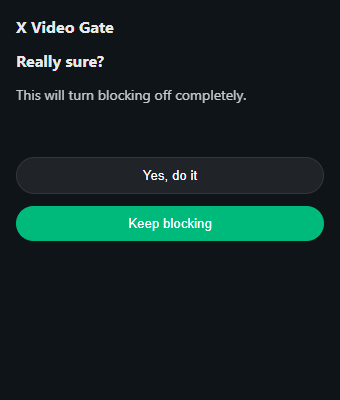
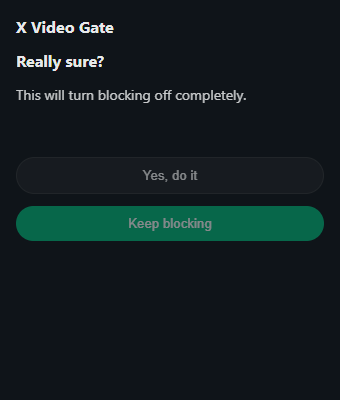
Give every dropped press and failed step a visible answer
Popup buttons look inactive during the double-click guard, a failed save says
so, the Play button reports a tab that didn't open or a stale page after an
update, the player falls to the next quality or says it couldn't load, and
Close removes the tab. Follow-flag rule now tells 'not said' from 'not followed'.

Changed region(s): [[0.0294, 0.51, 0.9706, 0.6], [0.4118, 0.42, 0.5882, 0.45]]

diff --git a/extension/content.js b/extension/content.js
@@ -27,10 +27,11 @@
     let list;
     try { list = JSON.parse(e.detail); } catch { return; }
     for (const rec of list) {
-      // A later response that merely omits the follow flag must not turn a
-      // followed author's video into a blocked one.
+      // A later response that doesn't say whether you follow the author must
+      // not turn a followed author's video into a blocked one. One that says
+      // "not followed" outright still does.
       const old = rec.mediaId && byMedia.get(rec.mediaId);
-      if (old && old.following && old.screenName === rec.screenName) rec.following = true;
+      if (rec.followKnown === false && old && old.following && old.screenName === rec.screenName) rec.following = true;
       if (rec.thumb) byThumb.set(rec.thumb, rec);
       if (rec.mediaId) byMedia.set(rec.mediaId, rec);
       if (rec.tweetId) {
@@ -144,16 +145,24 @@
         if (Date.now() - lastOpen < 1500) return;
         // X may have swapped the <video> element since this overlay was made.
         const current = box.querySelector("video");
-        if (current && openSingle(current)) { lastOpen = Date.now(); return; }
-        ov.dataset.xvgNote = "1";
-        setText(ov.querySelector(".xvg-msg"), "Can't open this one in a new tab");
+        const note = (text) => {
+          lastOpen = 0;
+          ov.dataset.xvgNote = "1";
+          setText(ov.querySelector(".xvg-msg"), text);
+        };
+        const result = current ? openSingle(current, () => note("Couldn't open the tab. Tap again.")) : "nothing";
+        if (result === "sent") lastOpen = Date.now();
+        else if (result === "stale") note("The extension was updated. Reload this page.");
+        else note("Can't open this one in a new tab");
       });
       box.appendChild(ov);
     }
     if (ov.dataset.xvgNote) {
       // Keep the "can't open" notice only while there is still nothing to open.
+      // Notes about a failed attempt stay; "nothing to open" lifts once there is something.
+      const nothing = ov.querySelector(".xvg-msg").dataset.xvgText === "Can't open this one in a new tab";
       const openable = (rec && (rec.variants.length || rec.tweetId)) || tweetIdFromArticle(video.closest("article"));
-      if (!openable) return;
+      if (!nothing || !openable) return;
       delete ov.dataset.xvgNote;
     }
     const who = rec && rec.screenName ? "@" + rec.screenName : "an account you don't follow";
@@ -187,24 +196,29 @@
     if (ov) ov.remove();
   }
 
-  // Returns false when there is nothing to open (no direct file, no post id).
-  function openSingle(video) {
+  // "sent", or "nothing" (no direct file and no post id), or "stale" (this
+  // page outlived an extension update and can no longer reach it).
+  function openSingle(video, onFail) {
     const rec = recordFor(video);
     const tweetId = (rec && rec.tweetId) || tweetIdFromArticle(video.closest("article"));
     const variants = (rec && rec.variants) || [];
-    if (!variants.length && !tweetId) return false;
-    chrome.runtime.sendMessage({
-      type: "xvg:open",
-      payload: {
-        tweetId,
-        screenName: rec && rec.screenName,
-        text: rec && rec.text,
-        variants,
-        poster: video.getAttribute("poster") || "",
-        kind: rec && rec.kind,
-      },
-    });
-    return true;
+    if (!variants.length && !tweetId) return "nothing";
+    try {
+      chrome.runtime.sendMessage({
+        type: "xvg:open",
+        payload: {
+          tweetId,
+          screenName: rec && rec.screenName,
+          text: rec && rec.text,
+          variants,
+          poster: video.getAttribute("poster") || "",
+          kind: rec && rec.kind,
+        },
+      }, () => { if (chrome.runtime.lastError) onFail(); });
+    } catch {
+      return "stale";
+    }
+    return "sent";
   }
 
   // ---- scanning ----

diff --git a/extension/popup.js b/extension/popup.js
@@ -36,21 +36,39 @@ function loosenings(next) {
 
 function commit(next) {
   chrome.storage.local.set({ settings: next }, () => {
-    if (chrome.runtime.lastError) return;
-    current = next;
-    $("saved").style.visibility = "visible";
-    setTimeout(() => ($("saved").style.visibility = "hidden"), 2000);
+    const failed = !!chrome.runtime.lastError;
+    if (!failed) current = next;
+    say(failed ? "Couldn't save. Try again." : "Saved", failed);
   });
+}
+
+let sayTimer = null;
+function say(text, bad) {
+  const el = $("saved");
+  el.textContent = text;
+  el.classList.toggle("bad", !!bad);
+  el.style.visibility = "visible";
+  clearTimeout(sayTimer);
+  sayTimer = setTimeout(() => (el.style.visibility = "hidden"), bad ? 6000 : 2000);
 }
 
 function show(view) {
   $("form").hidden = view !== "form";
   $("gate").hidden = view !== "gate";
-  shownAt = performance.now();
+  settle();
 }
 
 // A button that has only just appeared ignores clicks, so the second half of
-// a double click can't answer a question the user hasn't seen yet.
+// a double click can't answer a question the user hasn't seen yet. It also
+// LOOKS inactive for that moment, so the ignored click isn't a mystery.
+function settle() {
+  shownAt = performance.now();
+  document.body.classList.add("settling");
+  setTimeout(() => {
+    if (!fresh()) document.body.classList.remove("settling");
+  }, 620);
+}
+
 function fresh() {
   return performance.now() - shownAt < 600;
 }
@@ -92,7 +110,7 @@ function gate(next, what) {
       // The two buttons trade places, so tapping the same spot through the
       // wait lands on "Keep blocking", not on the final yes.
       $("gate").classList.add("last");
-      shownAt = performance.now();
+      settle();
       yes.onclick = () => { if (fresh()) return; commit(next); show("form"); };
     };
     tick();

diff --git a/extension/player.js b/extension/player.js
@@ -4,13 +4,24 @@
   const v = document.getElementById("v");
   const sel = document.getElementById("quality");
 
-  document.getElementById("close").onclick = () => window.close();
+  document.getElementById("close").onclick = () => {
+    // window.close() is refused for some tabs; removing the tab is not.
+    chrome.tabs.getCurrent((tab) => {
+      if (tab && tab.id != null) chrome.tabs.remove(tab.id);
+      else window.close();
+    });
+  };
+
+  function fail(text) {
+    document.getElementById("main").innerHTML = '<div class="err"></div>';
+    document.querySelector(".err").textContent = text;
+    sel.hidden = true;
+  }
 
   chrome.storage.local.get(key, (r) => {
     const p = r[key];
     if (!p || !p.variants || !p.variants.length) {
-      document.getElementById("main").innerHTML = '<div class="err">This video link has expired. Go back and tap it again.</div>';
-      sel.hidden = true;
+      fail("This video link has expired. Close this tab and tap Play on the post again.");
       return;
     }
     if (p.screenName) {
@@ -36,6 +47,17 @@
 
     v.src = p.variants[0].url;
     v.play().catch(() => {});
+
+    // A file that won't load: fall to the next quality, and say so when none is left.
+    const dead = new Set();
+    v.addEventListener("error", () => {
+      dead.add(v.currentSrc || v.src);
+      const next = p.variants.find((x) => !dead.has(x.url));
+      if (!next) { fail("This video couldn't be loaded. Check your connection, then close this tab and tap Play again."); return; }
+      sel.value = next.url;
+      v.src = next.url;
+      v.play().catch(() => {});
+    });
 
     // Position and play state to carry across a quality switch. Kept outside
     // the handler so a second switch before the first has loaded still

diff --git a/extension/popup.html b/extension/popup.html
@@ -16,6 +16,8 @@
   button { margin-top: 12px; width: 100%; padding: 10px; border: 0; border-radius: 999px;
     background: #1d9bf0; color: #fff; font: 600 14px inherit; }
   #saved { text-align: center; margin-top: 8px; color: #00ba7c; visibility: hidden; }
+  #saved.bad { color: #f4212e; }
+  .settling button { opacity: .5; pointer-events: none; }
   [hidden] { display: none !important; }
   #gate-msg { opacity: .85; min-height: 60px; }
   button:disabled { opacity: .5; }
@@ -35,7 +37,7 @@
     <textarea id="allowlist" spellcheck="false" autocapitalize="off"></textarea>
   </div>
   <button id="save" type="button" disabled>Save</button>
-  <div id="saved">Saved — reload X to apply everywhere</div>
+  <div id="saved" role="status">Saved</div>
   </div>
   <div id="gate" hidden>
     <h1 id="gate-title"></h1>

diff --git a/extension/inject.js b/extension/inject.js
@@ -27,6 +27,8 @@
       id: real.rest_id || legacy.id_str || null,
       screenName: core.screen_name || legacy.screen_name || null,
       following: !!(legacy.following || rel.following),
+      // false when the response simply doesn't say either way
+      followKnown: legacy.following !== undefined || rel.following !== undefined,
     };
   }
 
@@ -63,6 +65,7 @@
         kind: m.type,
         screenName: user.screenName,
         following: user.following || isMe,
+        followKnown: user.followKnown || !!isMe,
         isMe: !!isMe,
         text: (legacy.full_text || "").slice(0, 280),
         variants: bestVariants(m.video_info),

diff --git a/extension/background.js b/extension/background.js
@@ -1,8 +1,9 @@
 // Opens the single-video player tab. If X gave us direct MP4 links, the video
 // plays on a bare extension page (no feed at all). Otherwise it falls back to
 // the post's own page with a one-time pass for just that post's video.
-chrome.runtime.onMessage.addListener((msg, sender) => {
+chrome.runtime.onMessage.addListener((msg, sender, respond) => {
   if (!msg || msg.type !== "xvg:open") return;
+  respond({ ok: true }); // lets the page tell "received" from "never arrived"
   cleanup();
   const p = msg.payload || {};
   const opener = sender.tab ? { openerTabId: sender.tab.id, index: sender.tab.index + 1 } : {};

diff --git a/spec/SOURCE_AGENT_PROMPT.md b/spec/SOURCE_AGENT_PROMPT.md
@@ -1,11 +1,59 @@
-# Prompt for the source-only graph agent
+# Verification method for anything interactive
 
-Use this to start (or re-brief) the agent that derives `spec/from_source.json`.
-It must never be shown `spec/intended.json` before it has written its own graph.
+Run this whenever the code changes. The point is not to prove that code matches
+a sentence. The defects that actually occur are (a) a branch nobody defined and
+(b) something a person using it would expect that nobody considered. Both passes
+below exist to surface those.
 
-1. Read ONLY `extension/`. No README, store/, previews/, spec/intended.json, git history. Static reading, nothing run.
-2. Write `spec/from_source.json`: per component the hidden and visible state variables, states, events, a TOTAL transition table (every state x event, self-loops verified), each with file:line.
-3. `repeat_checks`: every user event fired twice in a row in every state, including the second arriving before the first's async callback.
-4. `round_trip_checks`: every inverse pair (block/unblock, open/cancel, off/on, tick/untick); compare ALL state variables and list residue.
-5. Mind capture vs bubble, preventDefault, async ordering, hidden tabs, popup closed mid-flow. Report what the code does, not what it seems meant to do.
-6. Only after the file is written: read `spec/intended.json` and write `spec/alignment.json` — one row per intended transition, invariant and accepted gap: `{intended, status: match|mismatch|not_determinable_statically, source, detail}`, plus `unintended`: source behaviours with no counterpart in the intended graph.
+## Who does what
+
+- **Main session** writes `spec/intended.json`: the state graph we mean, every
+  user action in every state with the outcome the user SEES. "Nothing happens"
+  is never a valid outcome on its own: either the control looks inactive, or it
+  says why, or the entry is a bug.
+- **A source-only agent** (same agent across updates when the session allows;
+  otherwise a fresh one started from this file plus its previous output) reads
+  only `extension/` and writes the files below. It is never shown
+  `intended.json` before its own files are on disk.
+- **Live run** settles anything the agent marks as not determinable, and every
+  fix. A static reading is a lead, not a verdict: it has produced false alarms.
+
+## Agent pass 1 — omission audit → `spec/gaps.json` (the main pass)
+
+Read ALL of `extension/`. No README, store/, previews/, intended.json, git history. Nothing run.
+
+- `control_census`: every control and input (buttons, checkbox, text box, select,
+  the overlay surface, the video element, Back, tab close, popup dismiss,
+  reload, rotate, Enter/Esc, long-press, double tap) in every state it is
+  reachable in → what the user sees happen → class:
+  `acts | visibly_disabled | silently_ignored | fails_silently | undefined`.
+- `failure_census`: every storage call, message, tab create, network load,
+  timer, nullable DOM lookup, optional API field → what the user sees if it
+  fails or never returns → `handled_with_feedback | handled_silently | unhandled`.
+- `missing_states`: loading, empty, error, offline, logged out, extension just
+  updated, first run, very long text, zero / many items, two tabs or popups at
+  once, slow phone.
+- `human_expectations`: walk through real use as a first-time phone user who
+  has read nothing; at least 25 situations; verdict `met | unmet | surprising`.
+- `top`: the 10 most likely to make a real user think it is broken.
+
+## Agent pass 2 — state graph → `spec/from_source.json`
+
+Hidden and visible state variables, states, events, a TOTAL transition table
+(every state x event; self-loops verified to change nothing), each with file:line.
+- `repeat_checks`: every user event twice in a row in every state, including
+  the second arriving before the first's async callback.
+- `round_trip_checks`: every inverse pair (block/unblock, open/cancel, off/on,
+  tick/untick); compare ALL state variables, list residue.
+
+## Agent pass 3 — `spec/alignment.json` (secondary)
+
+Only now read `intended.json`. One row per intended transition, invariant and
+accepted gap: `match | mismatch | not_determinable_statically`, plus
+`unintended`: behaviour with no counterpart in the intended graph.
+
+## Then
+
+Fix or consciously accept every item; record accepted ones under
+`accepted_gaps` in `intended.json`; re-run the live scripts; repeat until the
+agent's `top` list is empty or accepted.
